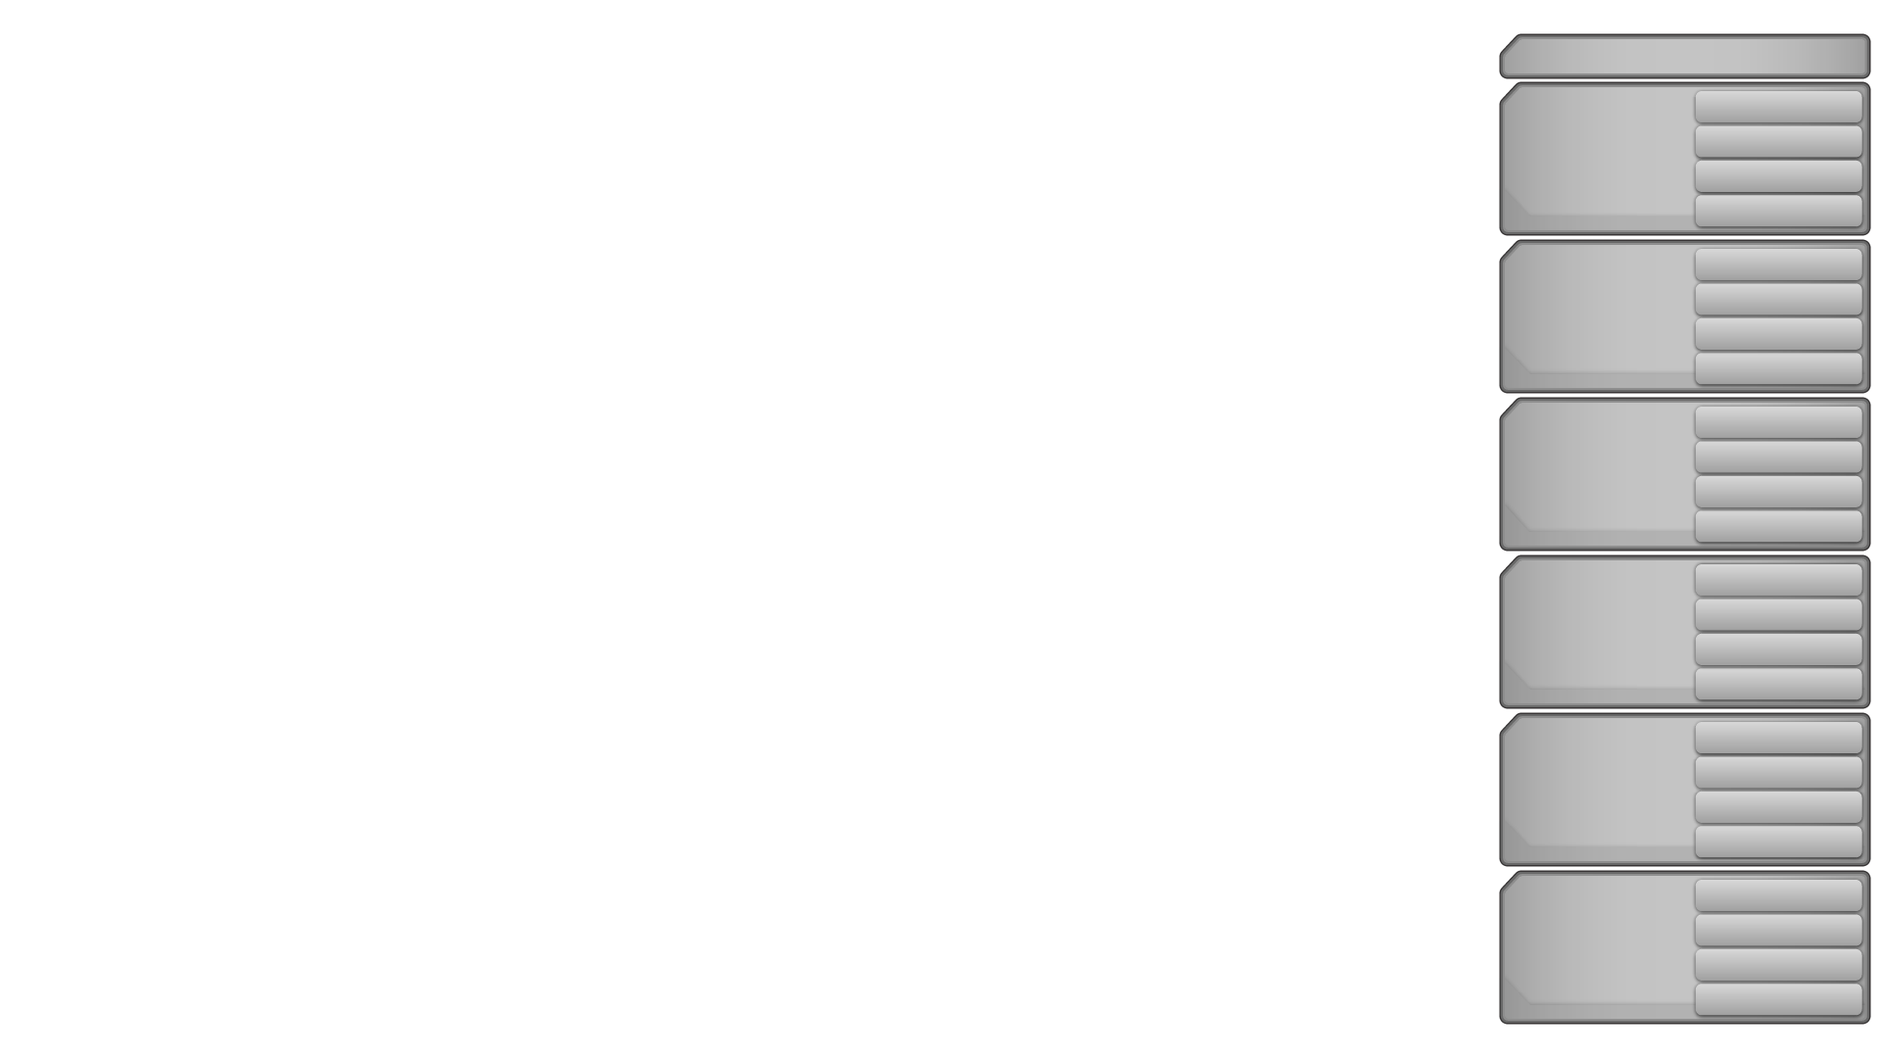
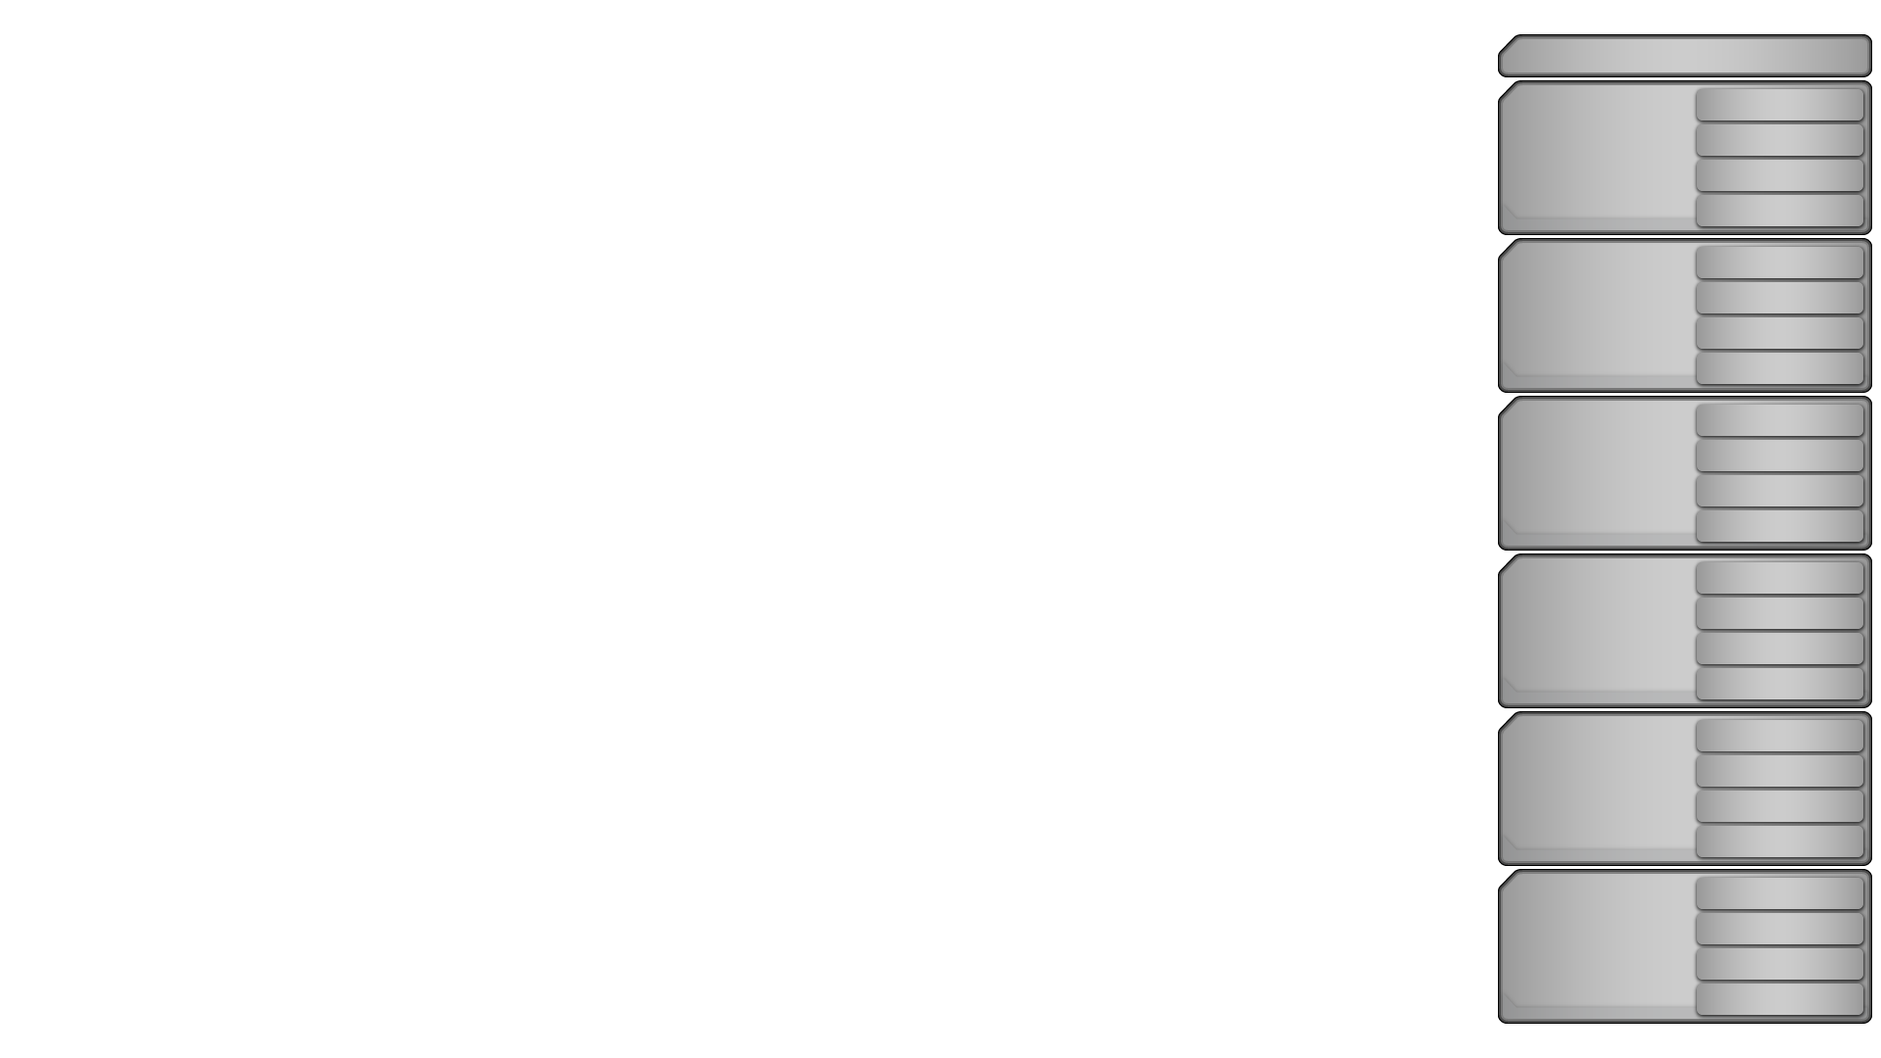
re-styled enemy
- added updated ui graphics
- added effective power
- added pokemon types
- added move types
- added crit rate
- added stat labels

Changed region(s): [[0.7812, 0.0306, 1.0, 0.9778]]

diff --git a/app/index.html b/app/index.html
@@ -79,8 +79,8 @@
                 <div class="statsContainer">  
                     <!-- BASE STATS --------------------------------------------------------------------------->
                     <div v-if="state == `Base Stats`">
-                        <div class="statsLabelStyle statsLabelsColumn1">HP:<br>Atk:<br>Def:<br></div>
-                        <div class="statsLabelStyle statsLabelsColumn2"><br>Spc:<br>Spe:<br></div>
+                        <div class="statsLabelStyle statsLabelsColumn1">HP<br>Atk.<br>Def.<br></div>
+                        <div class="statsLabelStyle statsLabelsColumn2"><br>Spc.<br>Spe.<br></div>
                         <div class="statsheader">Base Stats</div>
                         <div class="statsColumnStyle statsColumn1">{{ g1PokemonData[starterName].base_hp }}<br>{{ g1PokemonData[starterName].base_atk }}<br>{{ g1PokemonData[starterName].base_def }}<br></div>
                         <div class="critrate">Crit rate: {{ g1CritRate(g1PokemonData[starterName]) }}%</div>
@@ -89,14 +89,14 @@
                     <!-- OVERWORLD STATS --------------------------------------------------------------------------->
                     <div v-if="state == `Overworld` || state == `To Battle`">
                         <div class="statsLabelStyle statsLabelsColumn1">
-                            <span v-show="g1martSelector(map.overworld.map.value) != `Department`">HP:<br></span>
-                            <span v-show="g1martSelector(map.overworld.map.value) != `Department`">Atk:<br></span>
-                            <span v-show="g1martSelector(map.overworld.map.value) != `Department`">Def:<br></span>
+                            <span v-show="g1martSelector(map.overworld.map.value) != `Department`">HP<br></span>
+                            <span v-show="g1martSelector(map.overworld.map.value) != `Department`">Atk.<br></span>
+                            <span v-show="g1martSelector(map.overworld.map.value) != `Department`">Def.<br></span>
                         </div>
                         <div class="statsLabelStyle statsLabelsColumn2">
                             <br>
-                            <span v-show="g1martSelector(map.overworld.map.value) != `Department`">Spc:<br></span>
-                            <span v-show="g1martSelector(map.overworld.map.value) != `Department`">Spe:<br></span>
+                            <span v-show="g1martSelector(map.overworld.map.value) != `Department`">Spc.<br></span>
+                            <span v-show="g1martSelector(map.overworld.map.value) != `Department`">Spe.<br></span>
                         </div>
                         <div>
                             <span v-show="g1martSelector(map.overworld.map.value) == `Department` || g1martSelector(map.overworld.map.value) == `Vitamins`" class="vitaminLabelStyle vitaminHPLabel">
@@ -131,14 +131,14 @@
                     <!-- BATTLE STATS ----------------------------------------------------------------------------->
                     <div v-if="state == `Battle` || state == `From Battle`">
                         <div class="statsLabelStyle statsLabelsColumn1">
-                            <span>HP:<br></span>
-                            <span :style="{ opacity: statLabelOpacity(batt.yourPokemon.modStageAttack) }">Atk:<br></span>
-                            <span :style="{ opacity: statLabelOpacity(batt.yourPokemon.modStageDefense) }">Def:<br></span>
+                            <span>HP<br></span>
+                            <span :style="{ opacity: statLabelOpacity(batt.yourPokemon.modStageAttack) }">Atk.<br></span>
+                            <span :style="{ opacity: statLabelOpacity(batt.yourPokemon.modStageDefense) }">Def.<br></span>
                         </div>
                         <div class="statsLabelStyle statsLabelsColumn2">
                             <br>
-                            <span :style="{opacity: statLabelOpacity(batt.yourPokemon.modStageSpecial) }">Spc:<br></span>
-                            <span :style="{opacity: statLabelOpacity(batt.yourPokemon.modStageSpeed) }">Spe:<br></span>
+                            <span :style="{opacity: statLabelOpacity(batt.yourPokemon.modStageSpecial) }">Spc.<br></span>
+                            <span :style="{opacity: statLabelOpacity(batt.yourPokemon.modStageSpeed) }">Spe.<br></span>
                         </div>
                         <div class="statsheader">Level {{ mapper.properties.player.team[0].level.value }}</div>
                         <div class="statsColumnStyle statsColumn1">
@@ -185,16 +185,43 @@
                                     <img v-if="mapper.properties.meta.gameName == 'Yellow'" class="ePkmnSprite" :style="getEnemyPkmnStyles(batt.trainer.team[x]).faint" :src="`images/pokemon/${mapper.properties.battle.trainer.team[x]?.species}.png`"/>
                                     <img v-else-if="mapper.properties.meta.gameName == 'Red and Blue'" class="ePkmnSprite" :style="getEnemyPkmnStyles(batt.trainer.team[x]).faint" :src="`images/pokemon/Red_and_Blue/${mapper.properties.battle.trainer.team[x]?.species}.png`"/>
                                     <div class="ePkmnSpecies opacityTransition" :style="getEnemyPkmnStyles(batt.trainer.team[x]).species">{{mapper.properties.battle.trainer.team[x]?.species}}</div>
-                                    <img class="enemyStatsArea" :style="getEnemyPkmnStyles(batt.trainer.team[x]).faintStats" :src="`images/enemy_area/stats/${x}.png`"/>
+                                    <img class="ePkmnTypeIcons ePkmnType_1 ds opacityTransition" :style="enemyPkmnFaintTypes(batt.trainer.team[x])" :src="`images/elements/type-icons/${enemyType1(x).toLowerCase()}.png`"/>
+                                    <img v-if="enemyType1(x) != enemyType2(x)" :style="enemyPkmnFaintTypes(batt.trainer.team[x])" class="ePkmnTypeIcons ePkmnType_2 ds opacityTransition" :src="`images/elements/type-icons/${enemyType2(x).toLowerCase()}.png`"/>
+                                    
+                                    <!-- Moves -->
+                                    <img class="enemyStatsArea" :style="getEnemyPkmnStyles(batt.trainer.team[x]).faintStats" :src="`images/stats/${x}.png`"/>
+
+                                    <img v-if="mapper.properties.battle.trainer.team[x].move1.value != null" class="ds eMoveIconStyle moveIcon1 opacityTransition" :style="enemyPkmnFaintTypes(batt.trainer.team[x])" :src="`images/elements/type-icons/${g1MoveData[move_name(mapper.properties.battle.trainer.team[x].move1?.value)]?.Type?.toLowerCase()}.png`" />
+                                    <img v-if="mapper.properties.battle.trainer.team[x].move2.value != null" class="ds eMoveIconStyle moveIcon2 opacityTransition" :style="enemyPkmnFaintTypes(batt.trainer.team[x])" :src="`images/elements/type-icons/${g1MoveData[move_name(mapper.properties.battle.trainer.team[x].move2?.value)]?.Type?.toLowerCase()}.png`" />
+                                    <img v-if="mapper.properties.battle.trainer.team[x].move3.value != null" class="ds eMoveIconStyle moveIcon3 opacityTransition" :style="enemyPkmnFaintTypes(batt.trainer.team[x])" :src="`images/elements/type-icons/${g1MoveData[move_name(mapper.properties.battle.trainer.team[x].move3?.value)]?.Type?.toLowerCase()}.png`" />
+                                    <img v-if="mapper.properties.battle.trainer.team[x].move4.value != null" class="ds eMoveIconStyle moveIcon4 opacityTransition" :style="enemyPkmnFaintTypes(batt.trainer.team[x])" :src="`images/elements/type-icons/${g1MoveData[move_name(mapper.properties.battle.trainer.team[x].move4?.value)]?.Type?.toLowerCase()}.png`" />
+
                                     <div class="ePkmnMoveStyle ePkmnMove1 opacityTransition" :style="getEnemyPkmnStyles(batt.trainer.team[x]).text">{{move_name(mapper.properties.battle.trainer.team[x]?.move1.value)}}</div>
                                     <div class="ePkmnMoveStyle ePkmnMove2 opacityTransition" :style="getEnemyPkmnStyles(batt.trainer.team[x]).text">{{move_name(mapper.properties.battle.trainer.team[x]?.move2.value)}}</div>
                                     <div class="ePkmnMoveStyle ePkmnMove3 opacityTransition" :style="getEnemyPkmnStyles(batt.trainer.team[x]).text">{{move_name(mapper.properties.battle.trainer.team[x]?.move3.value)}}</div>
                                     <div class="ePkmnMoveStyle ePkmnMove4 opacityTransition" :style="getEnemyPkmnStyles(batt.trainer.team[x]).text">{{move_name(mapper.properties.battle.trainer.team[x]?.move4.value)}}</div>
-                                    <div class="ePkmnStatsStyle ePkmnHp opacityTransition" :style="getEnemyPkmnStyles(batt.trainer.team[x]).text">{{mapper.properties.battle.trainer.team[x]?.maxHp}}</div>
-                                    <div class="ePkmnStatsStyle ePkmnAtk opacityTransition" :style="getEnemyPkmnStyles(batt.trainer.team[x]).text">{{activeSlot(x,batt.enemyPokemon.partyPos.value,"attack",mapper.properties.battle.trainer.team[x]?.attack,"enemyPokemon")}}</div>
-                                    <div class="ePkmnStatsStyle ePkmnDef opacityTransition" :style="getEnemyPkmnStyles(batt.trainer.team[x]).text">{{activeSlot(x,batt.enemyPokemon.partyPos.value,"defense",mapper.properties.battle.trainer.team[x]?.defense,"enemyPokemon")}}</div>
-                                    <div class="ePkmnStatsStyle ePkmnSpd opacityTransition" :style="getEnemyPkmnStyles(batt.trainer.team[x]).text">{{activeSlot(x,batt.enemyPokemon.partyPos.value,"speed",mapper.properties.battle.trainer.team[x]?.speed,"enemyPokemon")}}</div>
-                                    <div class="ePkmnStatsStyle ePkmnSpc opacityTransition" :style="getEnemyPkmnStyles(batt.trainer.team[x]).text">{{activeSlot(x,batt.enemyPokemon.partyPos.value,"special",mapper.properties.battle.trainer.team[x]?.special,"enemyPokemon")}}</div>
+
+                                    <div v-if="mapper.properties.battle.trainer.team[x]?.move1.value != null" class="ePkmnMoveStyle ePkmnEffectivePower ePkmnMove1">{{enemy_effective_power(mapper.properties.battle.trainer.team[x]?.move1.value, mapper.properties.battle.trainer.team[x], x)}}</div>
+                                    <div v-if="mapper.properties.battle.trainer.team[x]?.move2.value != null" class="ePkmnMoveStyle ePkmnEffectivePower ePkmnMove2">{{enemy_effective_power(mapper.properties.battle.trainer.team[x]?.move2.value, mapper.properties.battle.trainer.team[x], x)}}</div>
+                                    <div v-if="mapper.properties.battle.trainer.team[x]?.move3.value != null" class="ePkmnMoveStyle ePkmnEffectivePower ePkmnMove3">{{enemy_effective_power(mapper.properties.battle.trainer.team[x]?.move3.value, mapper.properties.battle.trainer.team[x], x)}}</div>
+                                    <div v-if="mapper.properties.battle.trainer.team[x]?.move4.value != null" class="ePkmnMoveStyle ePkmnEffectivePower ePkmnMove4">{{enemy_effective_power(mapper.properties.battle.trainer.team[x]?.move4.value, mapper.properties.battle.trainer.team[x], x)}}</div>
+
+                                    <!-- Stats -->
+                                    <div class="ePkmnStatLabelStyle ePkmnLabelHp"  >Hp</div>
+                                    <div class="ePkmnStatLabelStyle ePkmnLabelAtk" >Atk.</div>
+                                    <div class="ePkmnStatLabelStyle ePkmnLabelDef" >Def.</div>
+                                    <div class="ePkmnStatLabelStyle ePkmnLabelSpc" >Spc.</div>
+                                    <div class="ePkmnStatLabelStyle ePkmnLabelSpd" >Spe.</div>
+                                    <div class="ePkmnStatLabelStyle ePkmnLabelCrit">Crit.</div>
+
+                                    <div class="ePkmnStatsStyle ePkmnHp   opacityTransition" :style="getEnemyPkmnStyles(batt.trainer.team[x]).text">{{mapper.properties.battle.trainer.team[x]?.maxHp}}</div>
+                                    <div class="ePkmnStatsStyle ePkmnAtk  opacityTransition" :style="getEnemyPkmnStyles(batt.trainer.team[x]).text">{{activeSlot(x,batt.enemyPokemon.partyPos.value,"attack",mapper.properties.battle.trainer.team[x]?.attack,"enemyPokemon")}}</div>
+                                    <div class="ePkmnStatsStyle ePkmnDef  opacityTransition" :style="getEnemyPkmnStyles(batt.trainer.team[x]).text">{{activeSlot(x,batt.enemyPokemon.partyPos.value,"defense",mapper.properties.battle.trainer.team[x]?.defense,"enemyPokemon")}}</div>
+                                    <div class="ePkmnStatsStyle ePkmnSpc  opacityTransition" :style="getEnemyPkmnStyles(batt.trainer.team[x]).text">{{activeSlot(x,batt.enemyPokemon.partyPos.value,"special",mapper.properties.battle.trainer.team[x]?.special,"enemyPokemon")}}</div>
+                                    <div class="ePkmnStatsStyle ePkmnSpd  opacityTransition" :style="getEnemyPkmnStyles(batt.trainer.team[x]).text">{{activeSlot(x,batt.enemyPokemon.partyPos.value,"speed",mapper.properties.battle.trainer.team[x]?.speed,"enemyPokemon")}}</div>
+                                    <div class="ePkmnStatsStyle ePkmnCrit opacityTransition" :style="getEnemyPkmnStyles(batt.trainer.team[x]).text">{{enemy_crit_rate(mapper.properties.battle.trainer.team[x])}}%</div>
+                                   
+                                    <!-- Modifiers -->
                                     <transition name="fadeMod"><div v-show="(enemyState == `Pokemon` || enemyState == `Fainting`) && batt.enemyPokemon.partyPos.value == x && batt.enemyPokemon.modEnemyStageAttack.value != `0`" class="enemyMods attackMod" :style="`${enemyMods(batt.enemyPokemon.modEnemyStageAttack.value)[1]}`">{{batt.enemyPokemon.modEnemyStageAttack.value}}</div></transition>
                                     <transition name="fadeMod"><div v-show="(enemyState == `Pokemon` || enemyState == `Fainting`) && batt.enemyPokemon.partyPos.value == x && batt.enemyPokemon.modEnemyStageDefense.value != `0`" class="enemyMods defenseMod" :style="`${enemyMods(batt.enemyPokemon.modEnemyStageDefense.value)[1]}`">{{batt.enemyPokemon.modEnemyStageDefense.value}}</div></transition>
                                     <transition name="fadeMod"><div v-show="(enemyState == `Pokemon` || enemyState == `Fainting`) && batt.enemyPokemon.partyPos.value == x && batt.enemyPokemon.modEnemyStageSpecial.value != `0`" class="enemyMods specialMod" :style="`${enemyMods(batt.enemyPokemon.modEnemyStageSpecial.value)[1]}`">{{batt.enemyPokemon.modEnemyStageSpecial.value}}</div></transition>

diff --git a/app/vue.js b/app/vue.js
@@ -1195,6 +1195,31 @@ const app = Vue.createApp({
 
     //FUNCTIONS -----------------------------------------------------------------------------------------------//
     methods: {
+        enemyPkmnFaintTypes(pkmnData) {
+            if (this.state == `To Battle`) {
+                return "filter: grayscale(0%) drop-shadow(0px 0px 1px #000000c5);"
+            }
+            else if (pkmnData.hp == 0 || this.state == `From Battle`) {
+                return "filter: grayscale(100%) drop-shadow(0px 0px 1px #000000c5); opacity: .5; "
+            }
+            else {
+                return "filter: grayscale(0%) drop-shadow(0px 0px 1px #000000c5);"
+            }
+        },
+        enemyType1(slotNumber) {
+            const pkmn_species = this.mapper.properties.battle.trainer.team[slotNumber].species.value
+            if (pkmn_species == null) { 
+                return "Normal"
+            }
+            return this.g1PokemonData[pkmn_species].type1
+        },
+        enemyType2(slotNumber) {
+            const pkmn_species = this.mapper.properties.battle.trainer.team[slotNumber].species.value
+            if (pkmn_species == null) { 
+                return "Normal"
+            }
+            return this.g1PokemonData[pkmn_species].type2
+        },
         toggleDataType() {
             // Cycle through the values
             this.key_F16 = this.cycleValues_failures[this.cycleIndex_failures];
@@ -1749,6 +1774,13 @@ const app = Vue.createApp({
             }
             else {
                 return this.g1PokemonData[this.starterName].crit_rate
+            }
+        },
+        enemy_crit_rate(pkmnData) {
+            const species = pkmnData?.species.value
+            const base_speed = this.g1PokemonData[species]?.base_spd
+            if (base_speed) {
+                return Math.round(Math.round((Math.floor(base_speed/2)/256) * 10000) / 100)
             }
         },
         move_name(move_string) {
@@ -2364,6 +2396,45 @@ const app = Vue.createApp({
 
         sleep(ms) {
             return new Promise((res) => setTimeout(res, ms))
+        },
+
+        enemy_move_power(move_name) {
+            var move_power = this.g1MoveData[this.move_name(move_name)].Power ?? 0
+            if (move_power == 0) { return "—" }
+            if (move_power == 1) { return "—" }
+            if (move_power == "—") { return "—" }
+            if (move_power == "-") { return "—" }
+            if (move_power == "") { return "—" }
+            else return move_power
+        },
+        enemy_effective_power(move_name, enemy_mon, slot) {
+            const state = this.state
+            const enemy_state = this.enemyState
+            const move = this.move_name(move_name)
+            if (state == 'Battle' || state == 'From Battle') { 
+                const species = enemy_mon.species.value
+                const move_data = this.g1MoveData[move]
+                const move_type = move_data.Type
+                const move_base_power = this.enemy_move_power(move) ?? move_data.Power
+                const move_category = move_data.Category
+                const user_type_1 = this.g1PokemonData[species].type1
+                const user_type_2 = this.g1PokemonData[species].type2
+                const target_type_1 = this.mapper.properties.battle.yourPokemon.type1.value
+                const target_type_2 = this.mapper.properties.battle.yourPokemon.type2.value
+                if (move_base_power == "—" || move_base_power == "-") { return "—" }
+                var move_effective_power = move_base_power
+                var modifier_effectiveness_1 = this.typeData.find(x => x.moveType == move_type)[target_type_1]
+                var modifier_effectiveness_2 = target_type_2 && move_type && (target_type_1 != target_type_2) ? this.typeData.find(x => x.moveType == move_type)[target_type_2]
+                    : 1
+                var modifier_stab = move_type == user_type_1 ? 1.5 
+                    : move_type == user_type_2 ? 1.5 
+                    : 1
+    
+                //Calculate effective power
+                if (this.typeCalcs == true) { //Handles type effectiveness calculations in battle
+                    return Math.floor(move_base_power * modifier_stab * modifier_effectiveness_1 * modifier_effectiveness_2)
+                }
+            }
         },
 
         type_effectiveness(pkmnData, moveNumber, enemyData) { //pkmnData = team[0] etc

diff --git a/app/style-yellow.css b/app/style-yellow.css
@@ -477,8 +477,8 @@ box-shadow:
     position: absolute;
     /* border: 1px solid rgb(0, 255, 149); */
     font-size: 18px;
-    font-family: titan;
-    width: 138px;
+    font-family: play;
+    width: 112px;
     opacity: .7;
     text-align: center;
     top: 7px;
@@ -487,10 +487,10 @@ box-shadow:
 .ePkmnSprite {
     position: absolute;
     /* border: 1px solid rgb(255, 0, 0); */
-    max-width: 115px;
-    max-height: 115px;
-    left: 18px;
-    top: 30px;
+    max-width: 107px;
+    max-height: 107px;
+    left: 9px;
+    top: 33px;
     transition: opacity 500ms ease-in-out, filter 500ms ease-in-out;
 }
 .enemyStatsArea {
@@ -541,17 +541,21 @@ box-shadow:
 .ePkmnMoveStyle {
     position: absolute;
     /* border: 1px solid rgb(47, 0, 255); */
-    width: 190px;
-    font-size: 20px;
-    line-height: 32px;
-    text-align: center;
-    left: 190px;
+    width: 110px;
+    font-size: 16px;
+    line-height: 31px;
+    text-align: left;
+    left: 232px;
+}
+.ePkmnEffectivePower {
+    left: 254px;
+    text-align: right;
 }
 .opacityTransition { transition: opacity 500ms ease-in-out;}
-.ePkmnMove1 { top: 12px; }
-.ePkmnMove2 { top: 48px; }
-.ePkmnMove3 { top: 84px; }
-.ePkmnMove4 { top: 119px; }
+.ePkmnMove1 { top: 11px; }
+.ePkmnMove2 { top: 46.5px; }
+.ePkmnMove3 { top: 82.5px; }
+.ePkmnMove4 { top: 117.5px; }
 .ePkmnRanges {
     /* left: 148px;
     width: 222px;
@@ -571,14 +575,69 @@ box-shadow:
     position: absolute;
     /* border: 1px solid rgb(255, 0, 0); */
     width: 50px;
-    text-align: center;
-    left: 146.5px;
+    text-align: right;
+    left: 142px;
+    font-size: 16px;
 }
-.ePkmnHp  { top: 11px; }
-.ePkmnAtk { top: 39px; }
-.ePkmnDef { top: 67px; }
-.ePkmnSpd { top: 124px; }
-.ePkmnSpc { top: 95px; }
+.ePkmnStatLabelStyle {
+    position: absolute;
+    /* border: 1px solid rgb(255, 0, 0); */
+    width: 50px;
+    text-align: left;
+    left: 128px;
+    font-size: 12px;
+    opacity: .7;
+}
+.ePkmnHp   { top: 11px; }
+.ePkmnAtk  { top: 35px; }
+.ePkmnDef  { top: 59px; }
+.ePkmnSpc  { top: 83px; }
+.ePkmnSpd  { top: 107px;}
+.ePkmnCrit { 
+    top: 133px;
+    font-size: 13px;
+}
+
+.ePkmnLabelHp   { top: 13px; }
+.ePkmnLabelAtk  { top: 37px; }
+.ePkmnLabelDef  { top: 61px; }
+.ePkmnLabelSpc  { top: 85px; }
+.ePkmnLabelSpd  { top: 109px;}
+.ePkmnLabelCrit { top: 133.3px;}
+
+.eMoveIconStyle {
+    position: absolute;
+    width: 25px;
+    height: 25px;
+    margin-bottom: 2px;
+    left: 204px;
+}
+.moveIcon1 {
+    top: 14px;
+}
+.moveIcon2 {
+    top: 50px;
+}
+.moveIcon3 {
+    top: 86px;
+}
+.moveIcon4 {
+    top: 122px;
+}
+
+.ePkmnTypeIcons {
+    position: absolute;
+    border: 1px solid rgba(255, 0, 0, 0);
+    width: 22px;
+    height: 22px;
+    top: 130px;
+}
+.ePkmnType_1 {
+    left: 6px;
+}
+.ePkmnType_2 {
+    left: 30px;
+}
 
 .enemyMods {
     position: absolute;
